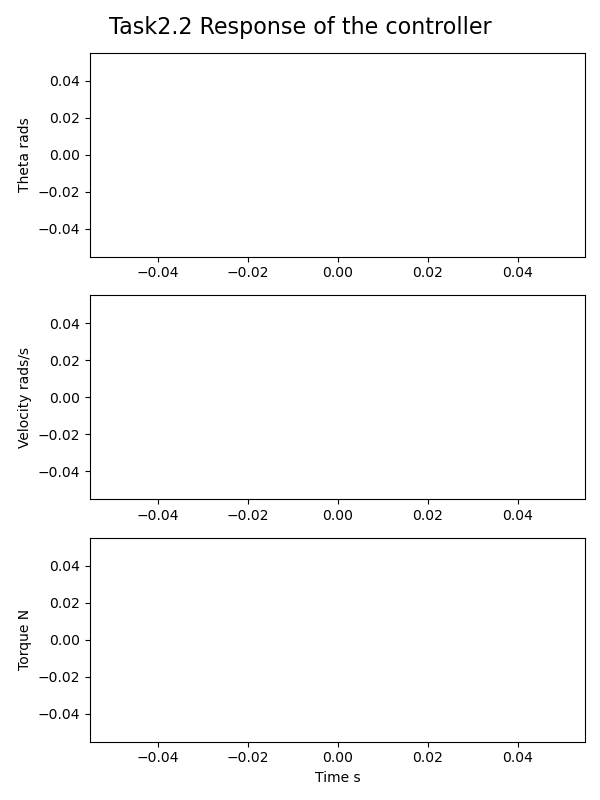
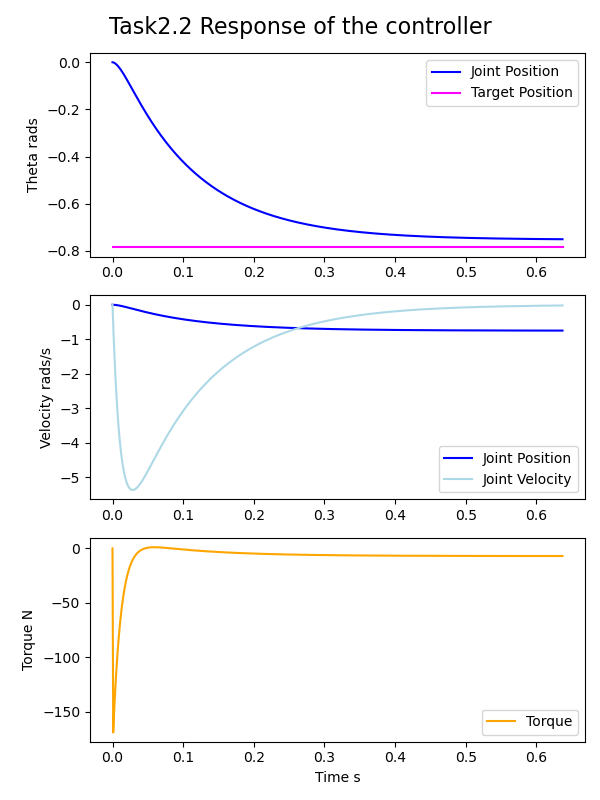
Working print and task 3 with new gains

diff --git a/task3_1/task3_1_pushing.py b/task3_1/task3_1_pushing.py
@@ -91,28 +91,10 @@ def getReadyForTask():
 
 def solution():
 
-    startPoint = sim.getJointPosition("LARM_JOINT5") + np.array([0, 0, 0.85])
-
-    points = np.array([startPoint, [0.15, 0.1, 0.95],[0.15, 0, 0.95],[0.35, 0, 0.95],[0.55, 0, 0.95], [0.55, -0.05, 0.95]])
-
-    points= sim.cubic_interpolation(points, nTimes = 10)
-    print(points)
-    for p in points:
-        sim.move_with_PD("LARM_JOINT5", np.array(p) - np.array([0, 0, 0.85]), speed=0.01, orientation=[0,0,1], threshold=1e-3, maxIter=1000, debug=True, verbose=False, startJoint = "base_to_dummy")
-
-    # startPoint = 
-    # 
-    # startPoint = 
-    # sim.move_with_PD("LARM_JOINT5", startPoint - np.array([0, 0, 0.85]), speed=0.01, orientation=[0,1,1], threshold=1e-3, maxIter=1000, debug=True, verbose=False, startJoint = "base_to_dummy")
-    # startPoint = 
-    # sim.move_with_PD("LARM_JOINT5", startPoint - np.array([0, 0, 0.85]), speed=0.01, orientation=[0,1,1], threshold=1e-3, maxIter=1000, debug=True, verbose=False, startJoint = "base_to_dummy")
-    # startPoint = 
-    # sim.move_with_PD("LARM_JOINT5", startPoint - np.array([0, 0, 0.85]), speed=0.01, orientation=[0,1,1], threshold=1e-3, maxIter=1000, debug=True, verbose=False, startJoint = "base_to_dummy")
-    # startPoint = 
-    # sim.move_with_PD("LARM_JOINT5", startPoint - np.array([0, 0, 0.85]), speed=0.01, orientation=[0,1,1], threshold=1e-3, maxIter=1000, debug=True, verbose=False, startJoint = "base_to_dummy")
-
+    sim.dockingToPosition()
 
 tableId, cubeId, targetId = getReadyForTask()
 solution()
+## remove this in final submission
 location, orientation = bullet_simulation.getBasePositionAndOrientation(cubeId)
 print("Final Distance: ",np.linalg.norm(location - finalTargetPos))

diff --git a/task2/task2_template.py b/task2/task2_template.py
@@ -65,19 +65,22 @@ pltTime, pltTarget, pltTorque, pltTorqueTime, pltPosition, pltVelocity = \
 fig = plt.figure(figsize=(6, 8))
 
 plt.subplot(311)
-plt.plot(pltTime, pltPosition, color='blue')
-plt.plot(pltTime, pltTarget, color='magenta')
+plt.plot(pltTime, pltPosition, color='blue', label="Joint Position")
+plt.plot(pltTime, pltTarget, color='magenta', label="Target Position")
 plt.ylabel("Theta rads")
+leg = plt.legend(loc='upper right')
 
 plt.subplot(312)
-plt.plot(pltTime, pltPosition, color='blue')
-plt.plot(pltTime, pltVelocity, color='lightblue')
+plt.plot(pltTime, pltPosition, color='blue', label="Joint Position")
+plt.plot(pltTime, pltVelocity, color='lightblue', label="Joint Velocity")
 plt.ylabel("Velocity rads/s")
+leg = plt.legend(loc='lower right')
 
 plt.subplot(313)
-plt.plot(pltTime, pltTorque, color='orange')
+plt.plot(pltTime, pltTorque, color='orange', label="Torque")
 plt.xlabel("Time s")
 plt.ylabel("Torque N")
+leg = plt.legend(loc='lower right')
 
 plt.suptitle("Task2.2 Response of the controller", size=16)
 plt.tight_layout()
